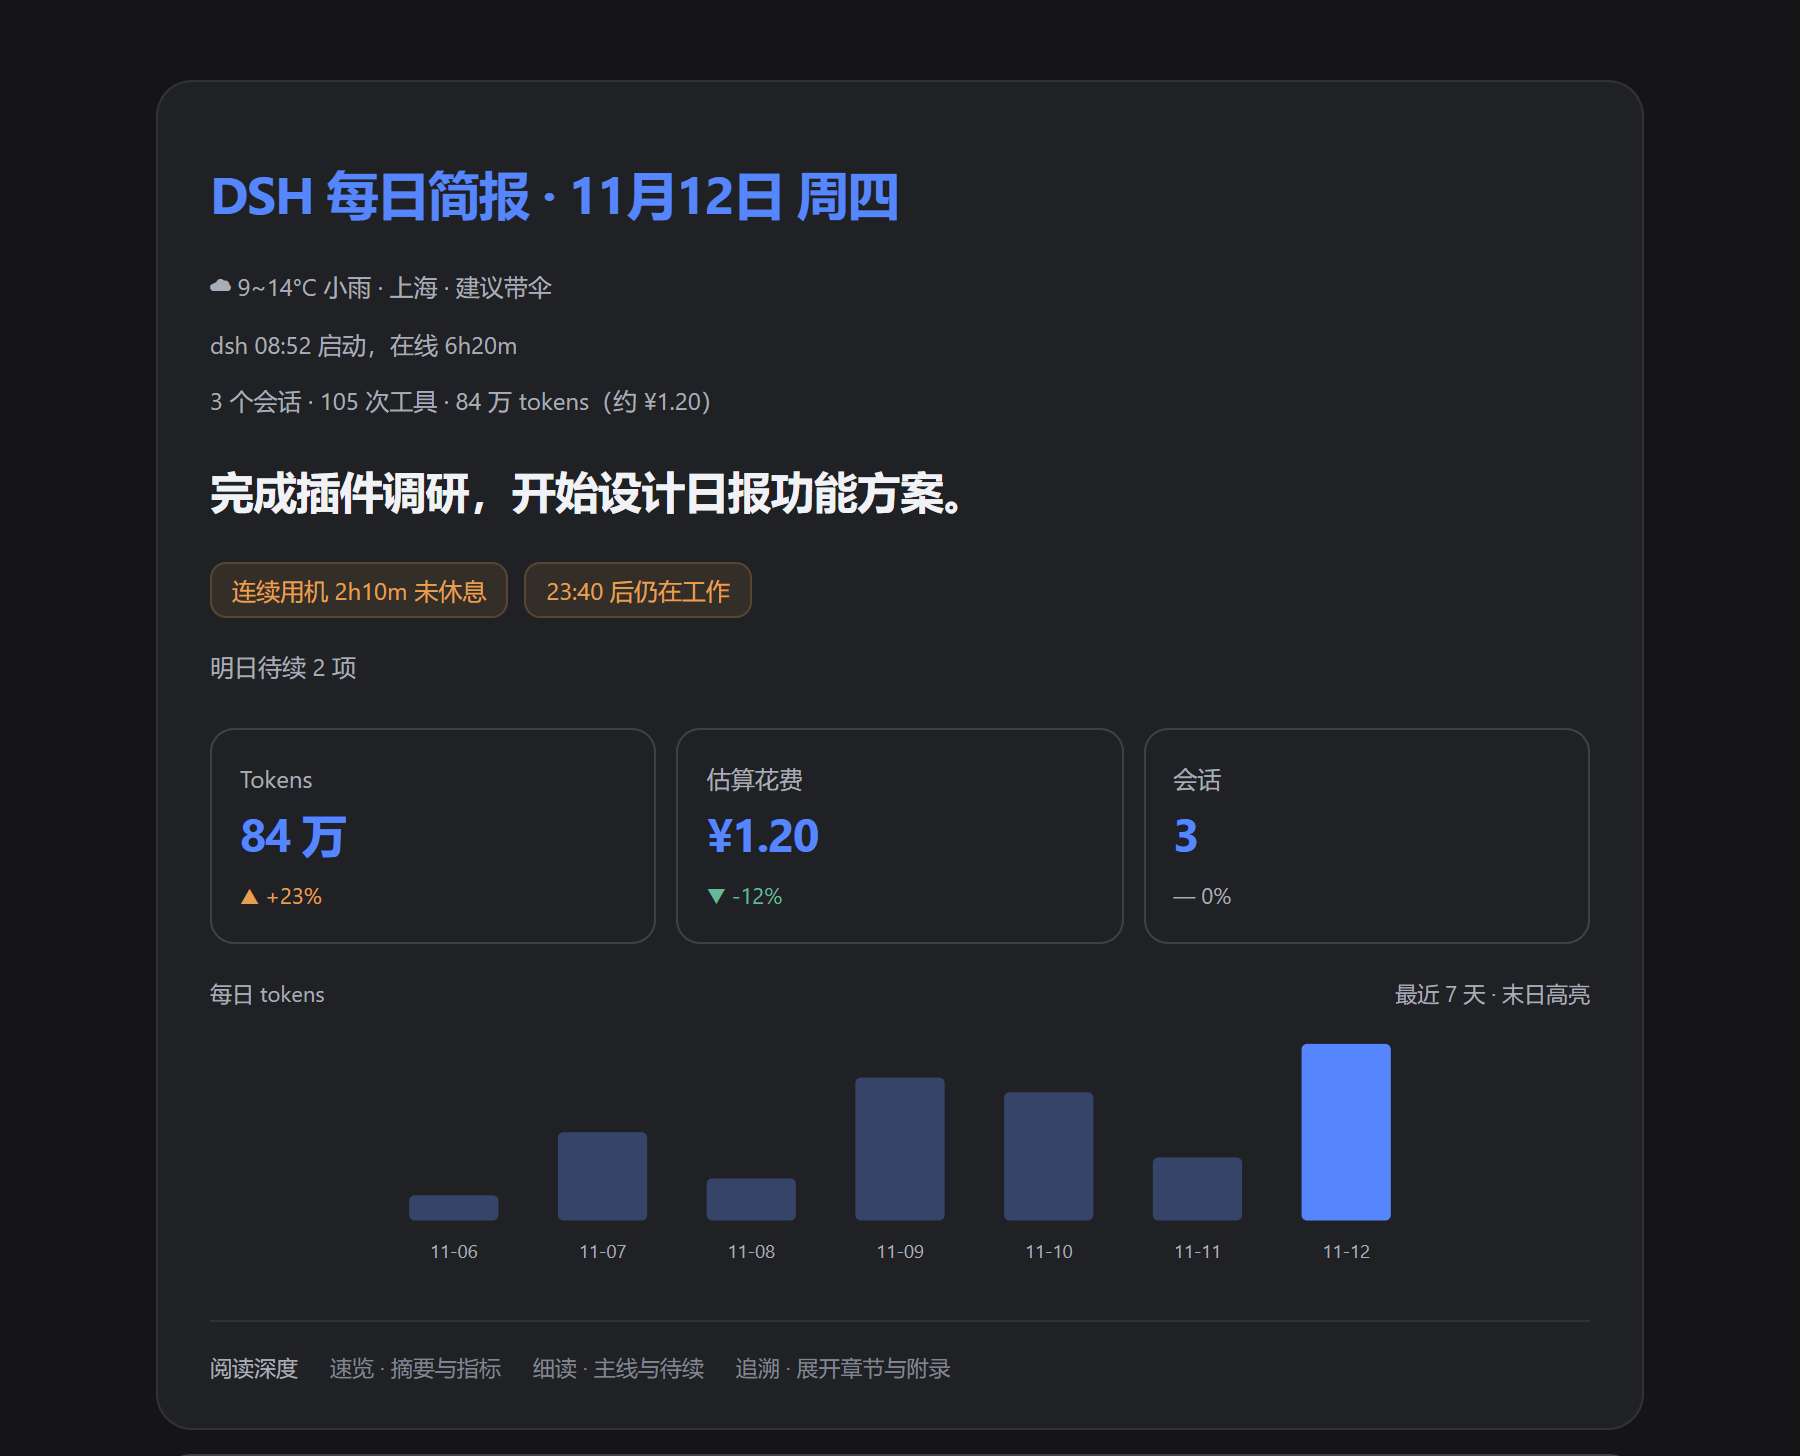
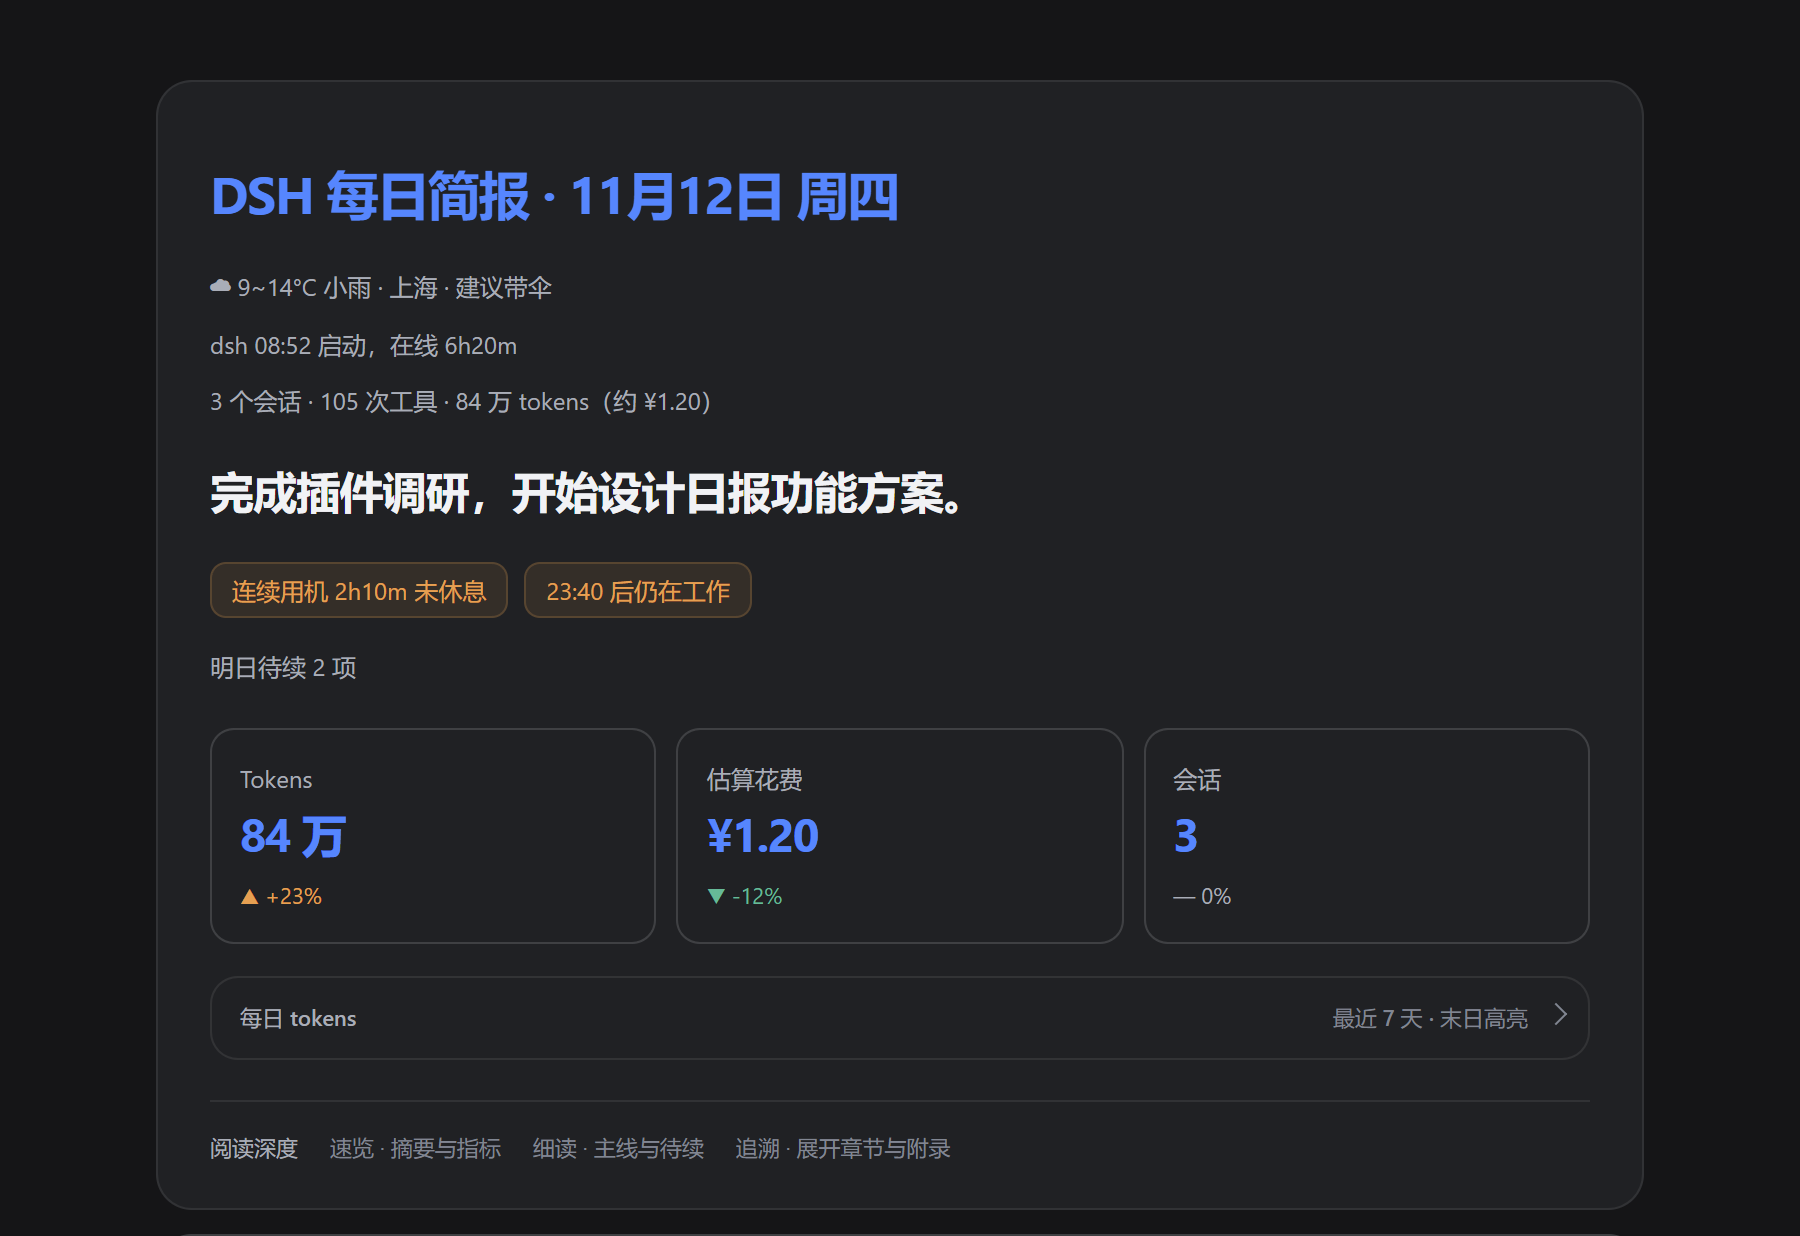
feat(report): 明日待续置顶，tokens 柱状图默认折叠
第二层章节顺序改为 待续 -> 主线 -> 用量 -> 工具 -> 卡点 -> 作息，Markdown 归档同步；首层近 7 天 tokens 柱状图收进 details，首屏更短；测试与文档同步，演示图重新生成。

diff --git a/lib/render/markdown.js b/lib/render/markdown.js
@@ -35,7 +35,7 @@ export function renderMarkdown(report) {
   overview.push(...(l.alerts || []))
   if (l.carryOverCount > 0) overview.push(`明日待续 ${l.carryOverCount} 项`)
   if (overview.length) out.push(overview.map((v) => '> ' + text(v)).join('\n'))
-  const names = { mainline: '今日主线', usage: '用量与成本', tools: '工具与产出', blockers: '卡点', health: '作息与健康', carryOver: '明日待续', weekly: r.kind === 'monthly' ? '本月概览' : '本周概览' }
+  const names = { carryOver: '明日待续', mainline: '今日主线', usage: '用量与成本', tools: '工具与产出', blockers: '卡点', health: '作息与健康', weekly: r.kind === 'monthly' ? '本月概览' : '本周概览' }
   for (const [key, name] of Object.entries(names)) {
     const v = r.sections?.[key]
     if (v == null) continue

diff --git a/docs/GUIDE.md b/docs/GUIDE.md
@@ -31,11 +31,11 @@
 | 能力 | 说明 |
 |---|---|
 | 早晨卡片 | 在 DSH 新会话页「探索未至之境」的鲸鱼 logo 上方弹出；以第一层为主，另附最多 3~4 条主线/待续和用量小图；每天自动弹一次，点鲸鱼可随时再开 |
-| 三层日报 | 第一层 30 秒（天气 / 启停 / 总量 / 一句话 / 提醒），第二层约 3 分钟（主线、用量、工具、卡点、健康、待续），第三层附录（逐会话、命令、原始数据） |
+| 三层日报 | 第一层 30 秒（天气 / 启停 / 总量 / 一句话 / 提醒），第二层约 3 分钟（待续、主线、用量、工具、卡点、健康，待续置顶），第三层附录（逐会话、命令、原始数据） |
 | 正文摘要 | 先把会话压缩成「事实包」，再写每会话 1~2 句和当日一句话；按会话与事件序号缓存，旧会话不重复花钱 |
 | 工具统计 | 调用排行、失败次数、p50/p90 耗时、命令分类、改动文件热度、访问域名、审批等待、输出速度、交付物 |
 | 成本与省钱 | token 用量、花费估算、缓存命中率、峰谷占比、最贵一轮、每日预算提醒；单价可在设置里改 |
-| 近 7 天对比 | 指标带 ▲▼，并附 7 天的内联 SVG 迷你柱状图 |
+| 近 7 天对比 | 指标带 ▲▼，并附 7 天的内联 SVG 迷你柱状图（默认折叠在首层卡片里，点一下展开） |
 | 卡点 | 失败工具、失败命令、LLM 重试、被中断/错误轮次、反复改同一文件、方向纠正比例（仅供参考） |
 | 明日待续 | 未完成 todo 与被打断的轮次自动进入下一份简报 |
 | 健康提醒 | Windows 键鼠空闲采样（可选）→ 久坐段、熬夜、午休没离开、周末加班；只提醒，不做医学判断 |

diff --git a/CONTRACT.md b/CONTRACT.md
@@ -230,7 +230,7 @@ export function renderHtml(report, { redact = false } = {}) → string
 // render/markdown.js
 export function renderMarkdown(report) → string
 ```
-- HTML：**单文件**，内联 CSS + 内联 SVG，**无 `<script>`、无外链**（字体用系统字体栈）。第 1 层常显；第 2 层各 section 用 `<details open>`（主线、待续默认展开，其余折叠）；第 3 层附录 `<details>` 默认折叠。暗色/亮色跟随 `prefers-color-scheme`。`redact=true` 时把 cwd、文件路径、域名替换为 `***`（脱敏分享）。
+- HTML：**单文件**，内联 CSS + 内联 SVG，**无 `<script>`、无外链**（字体用系统字体栈）。第 1 层常显，其中近 7 天 tokens 柱状图折叠在 `<details class="spark">` 内、默认收起；第 2 层按 **待续 → 主线 → 用量 → 工具 → 卡点 → 作息 →（周/月概览）** 顺序渲染，每段一个 `<details>`，待续与主线默认展开，其余折叠；第 3 层附录 `<details>` 默认折叠。暗色/亮色跟随 `prefers-color-scheme`。`redact=true` 时把 cwd、文件路径、域名替换为 `***`（脱敏分享）。
 - 所有文本必须 `escapeHtml`。
 - “只写有变化的内容”：section 为 null 就不渲染该段；`layer1.alerts` 为空就不渲染警示行。
 - Markdown：全量，同样的层次；第 2 层用 `## `，附录用 `## 附录`；表格用 GFM。

diff --git a/README.md b/README.md
@@ -19,8 +19,8 @@
 | 正文摘要 | 会话先压缩成「事实包」，再写摘要；按会话与事件序号缓存，旧会话不重复花钱 |
 | 工具统计 | 调用排行、失败次数、p50/p90 耗时、命令分类、改动文件、访问域名、审批等待 |
 | 成本与省钱 | token 用量、花费估算、缓存命中率、峰谷占比、最贵一轮、每日预算提醒 |
-| 近 7 天对比 | 指标带 ▲▼，附 7 天迷你柱状图 |
-| 卡点与待续 | 失败工具/命令、重试、反复改同一文件；未完成 todo 自动进入下一份简报 |
+| 近 7 天对比 | 指标带 ▲▼，7 天迷你柱状图默认折叠、点一下展开 |
+| 卡点与待续 | 明日待续置顶在报告最前；失败工具/命令、重试、反复改同一文件；未完成 todo 自动进入下一份简报 |
 | 健康提醒 | Windows 键鼠空闲采样（可选），只提醒久坐、熬夜、午休没离开，不做医学判断 |
 | 周报 / 月报 | 同一套数据换窗口，按 ISO 周与自然月聚合 |
 | 给 agent 读 | Markdown 全量落盘，可选注册 `daily_report` 工具，直接问「昨天做了什么」 |

diff --git a/CHANGELOG.md b/CHANGELOG.md
@@ -2,6 +2,14 @@
 
 本文件记录 `dsh-daily-report` 的版本变更。格式参考 [Keep a Changelog](https://keepachangelog.com/zh-CN/1.1.0/)，版本号遵循 [语义化版本](https://semver.org/lang/zh-CN/)。
 
+## [未发布]
+
+### 变更
+
+- 报告第二层改为 **「明日待续」置顶**，主线顺延为第二段；Markdown 归档的章节顺序同步调整。
+- 首层的近 7 天 tokens 迷你柱状图改为默认折叠，点「每日 tokens」行展开，首屏更短。
+- README 与 `docs/images` 的早晨卡片截图换成有内容的真实桌面截图，三张演示图随新布局重新生成。
+
 ## [0.3.0] - 2026-11-12
 
 首个公开版本。插件在本地 DSH Desktop 上完成一到三期功能，并做了一轮收尾与重设计。
